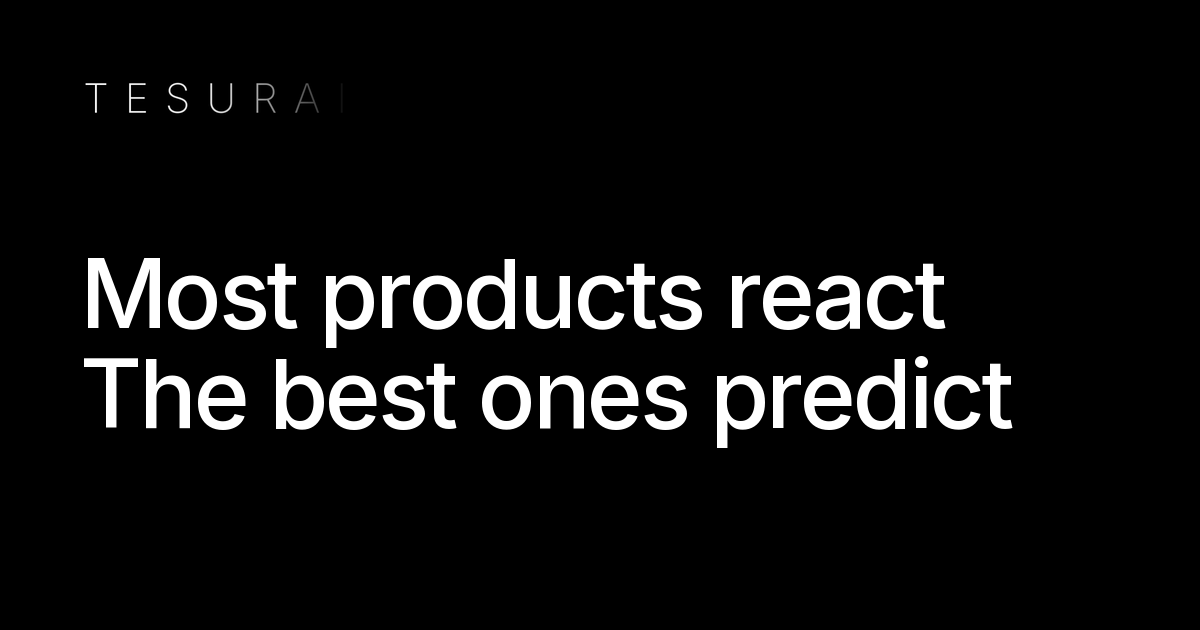
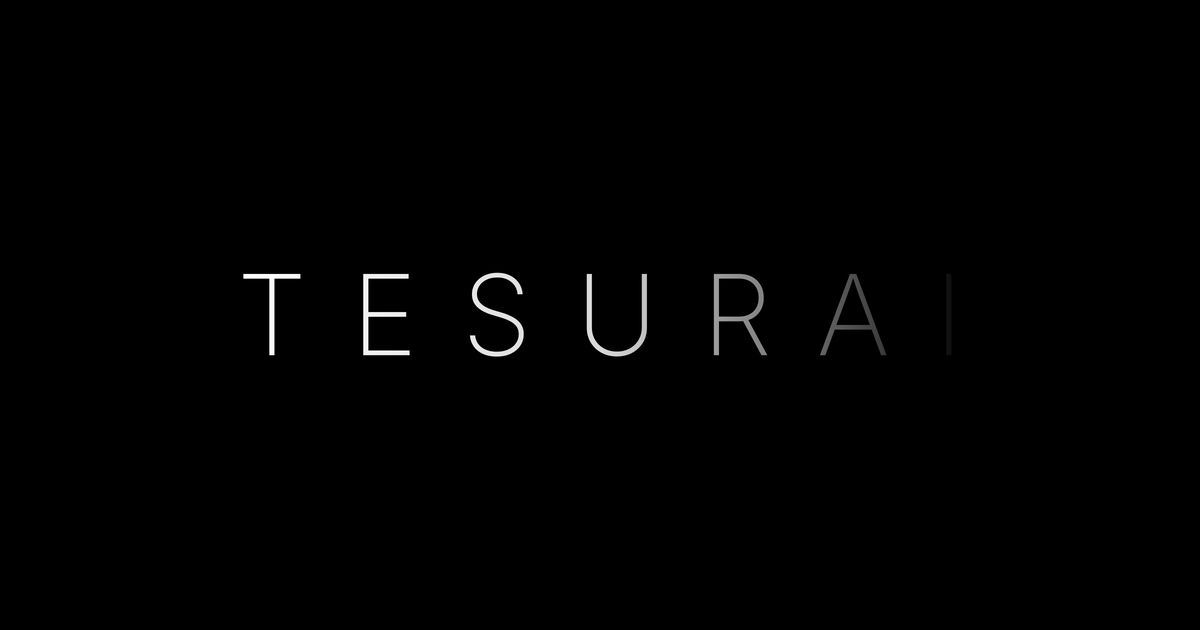
Mobile: left align centered sections + OG image now wordmark only
On the four centered sections (Hero, What we believe, The difference,
Get started) swap text-center to sm:text-center and mx-auto to
sm:mx-auto so phones get left aligned text while desktop stays
centered. Hero h1 clamp min drops from 2.75rem to 2.25rem with looser
1.05 leading so the long headline does not feel chunky on a 375px
screen. Get started price block and pay button flex columns shift to
items-start on mobile to keep the new alignment. OG image regenerated
to show only the centered wordmark on black, no title text.

Changed region(s): [[0.0617, 0.3921, 0.8633, 0.7238], [0.0925, 0.1206, 0.2775, 0.181]]

diff --git a/src/app/page.tsx b/src/app/page.tsx
@@ -69,30 +69,30 @@ export default function Page() {
       </header>
 
       {/* Hero */}
-      <section className="px-6 sm:px-10 pt-44 sm:pt-56 pb-28 sm:pb-40 max-w-[1200px] mx-auto text-center">
+      <section className="px-6 sm:px-10 pt-44 sm:pt-56 pb-28 sm:pb-40 max-w-[1200px] mx-auto sm:text-center">
         <p className="text-[12px] font-mono tracking-[0.18em] uppercase text-white/35 mb-8">
           Tesurai
         </p>
-        <h1 className="text-[clamp(2.75rem,7.5vw,6.5rem)] font-medium leading-[1.02] tracking-[-0.04em] text-white max-w-[18ch] mx-auto">
+        <h1 className="text-[clamp(2.25rem,7vw,6rem)] font-medium leading-[1.05] tracking-[-0.035em] text-white max-w-[18ch] sm:mx-auto">
           Most predictive intelligence layer for digital products
         </h1>
-        <p className="mt-10 text-[clamp(1.05rem,1.45vw,1.25rem)] font-normal leading-[1.55] text-white/65 max-w-[640px] mx-auto">
+        <p className="mt-10 text-[clamp(1.05rem,1.45vw,1.25rem)] font-normal leading-[1.55] text-white/65 max-w-[640px] sm:mx-auto">
           Tessa reads each user, predicts where they are heading, and surfaces the next move to
           keep them on the path.
         </p>
       </section>
 
       {/* What we believe */}
-      <section className="px-6 sm:px-10 py-28 sm:py-40 max-w-[1200px] mx-auto border-t border-white/[0.10] text-center">
+      <section className="px-6 sm:px-10 py-28 sm:py-40 max-w-[1200px] mx-auto border-t border-white/[0.10] sm:text-center">
         <p className="text-[12px] font-mono tracking-[0.18em] uppercase text-white/35 mb-6">
           [ What we believe ]
         </p>
-        <h2 className="text-[clamp(2.25rem,5vw,4.5rem)] font-medium leading-[1.05] tracking-[-0.035em] text-white max-w-[18ch] mx-auto">
+        <h2 className="text-[clamp(2rem,5vw,4.5rem)] font-medium leading-[1.05] tracking-[-0.035em] text-white max-w-[18ch] sm:mx-auto">
           Most products react
           <br />
           The best ones predict
         </h2>
-        <p className="mt-10 text-[clamp(1.05rem,1.45vw,1.25rem)] font-normal leading-[1.55] text-white/65 max-w-[640px] mx-auto">
+        <p className="mt-10 text-[clamp(1.05rem,1.45vw,1.25rem)] font-normal leading-[1.55] text-white/65 max-w-[640px] sm:mx-auto">
           Reading the past is too late. The best products see what is coming and act before the
           user slips.
         </p>
@@ -101,15 +101,15 @@ export default function Page() {
       {/* The difference: with vs without Tessa */}
       <section
         id="tessa"
-        className="px-6 sm:px-10 py-28 sm:py-40 max-w-[1200px] mx-auto border-t border-white/[0.10] text-center scroll-mt-24"
+        className="px-6 sm:px-10 py-28 sm:py-40 max-w-[1200px] mx-auto border-t border-white/[0.10] sm:text-center scroll-mt-24"
       >
         <p className="text-[12px] font-mono tracking-[0.18em] uppercase text-white/35 mb-6">
           [ The difference ]
         </p>
-        <h2 className="text-[clamp(2.25rem,5vw,4.5rem)] font-medium leading-[1.05] tracking-[-0.035em] text-white max-w-[18ch] mx-auto">
+        <h2 className="text-[clamp(2rem,5vw,4.5rem)] font-medium leading-[1.05] tracking-[-0.035em] text-white max-w-[18ch] sm:mx-auto">
           Predict or lose them
         </h2>
-        <p className="mt-10 text-[clamp(1.05rem,1.45vw,1.25rem)] font-normal leading-[1.55] text-white/65 max-w-[640px] mx-auto">
+        <p className="mt-10 text-[clamp(1.05rem,1.45vw,1.25rem)] font-normal leading-[1.55] text-white/65 max-w-[640px] sm:mx-auto">
           Every user takes a path through your business. Without an intelligence layer, most
           users never reach the result.
         </p>
@@ -308,15 +308,15 @@ export default function Page() {
       {/* Get started: vertical timeline layout, distinct from the How cards */}
       <section
         id="get-started"
-        className="px-6 sm:px-10 py-28 sm:py-40 max-w-[1200px] mx-auto border-t border-white/[0.10] scroll-mt-24 text-center"
+        className="px-6 sm:px-10 py-28 sm:py-40 max-w-[1200px] mx-auto border-t border-white/[0.10] scroll-mt-24 sm:text-center"
       >
         <p className="text-[12px] font-mono tracking-[0.18em] uppercase text-white/35 mb-6">
           [ Get started ]
         </p>
-        <h2 className="text-[clamp(2.25rem,5vw,4.5rem)] font-medium leading-[1.05] tracking-[-0.035em] text-white max-w-[18ch] mx-auto">
+        <h2 className="text-[clamp(2rem,5vw,4.5rem)] font-medium leading-[1.05] tracking-[-0.035em] text-white max-w-[18ch] sm:mx-auto">
           Start with Tessa
         </h2>
-        <p className="mt-10 text-[clamp(1.05rem,1.45vw,1.25rem)] font-normal leading-[1.55] text-white/65 max-w-[640px] mx-auto">
+        <p className="mt-10 text-[clamp(1.05rem,1.45vw,1.25rem)] font-normal leading-[1.55] text-white/65 max-w-[640px] sm:mx-auto">
           $2,500 one time. We build Tessa for your product, get it live, and keep tuning it for
           90 days after.
         </p>
@@ -357,7 +357,7 @@ export default function Page() {
           ))}
         </div>
 
-        <div className="mt-16 flex flex-col items-center gap-8">
+        <div className="mt-16 flex flex-col items-start sm:items-center gap-8">
           <div>
             <p className="text-[12px] font-mono tracking-[0.16em] uppercase text-white/55 mb-3">
               Price
@@ -366,7 +366,7 @@ export default function Page() {
               $2,500
             </p>
           </div>
-          <div className="flex flex-col items-center gap-3">
+          <div className="flex flex-col items-start sm:items-center gap-3">
             <PayButton />
             <p className="text-[13px] font-normal text-white/40">
               Or{" "}

diff --git a/src/app/pay-button.tsx b/src/app/pay-button.tsx
@@ -25,7 +25,7 @@ export default function PayButton() {
   }
 
   return (
-    <div className="flex flex-col items-center gap-3">
+    <div className="flex flex-col items-start sm:items-center gap-3">
       <button
         type="button"
         onClick={handlePay}
